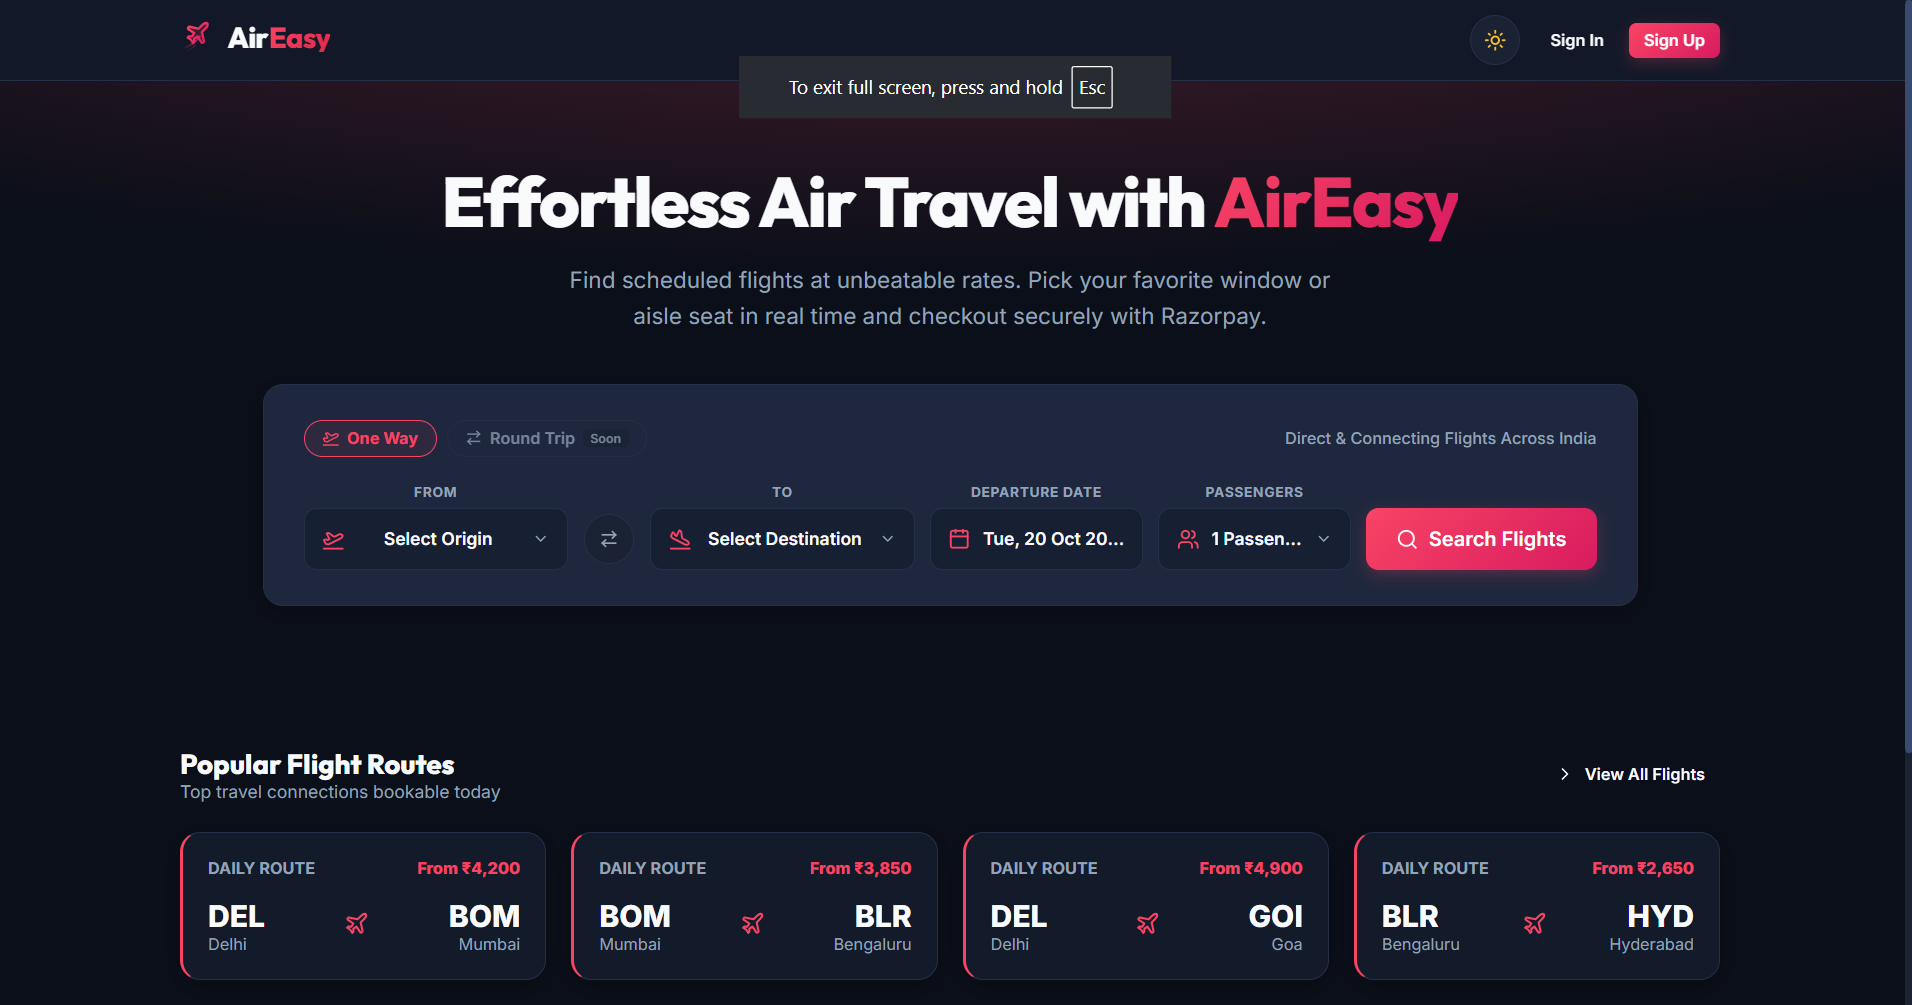
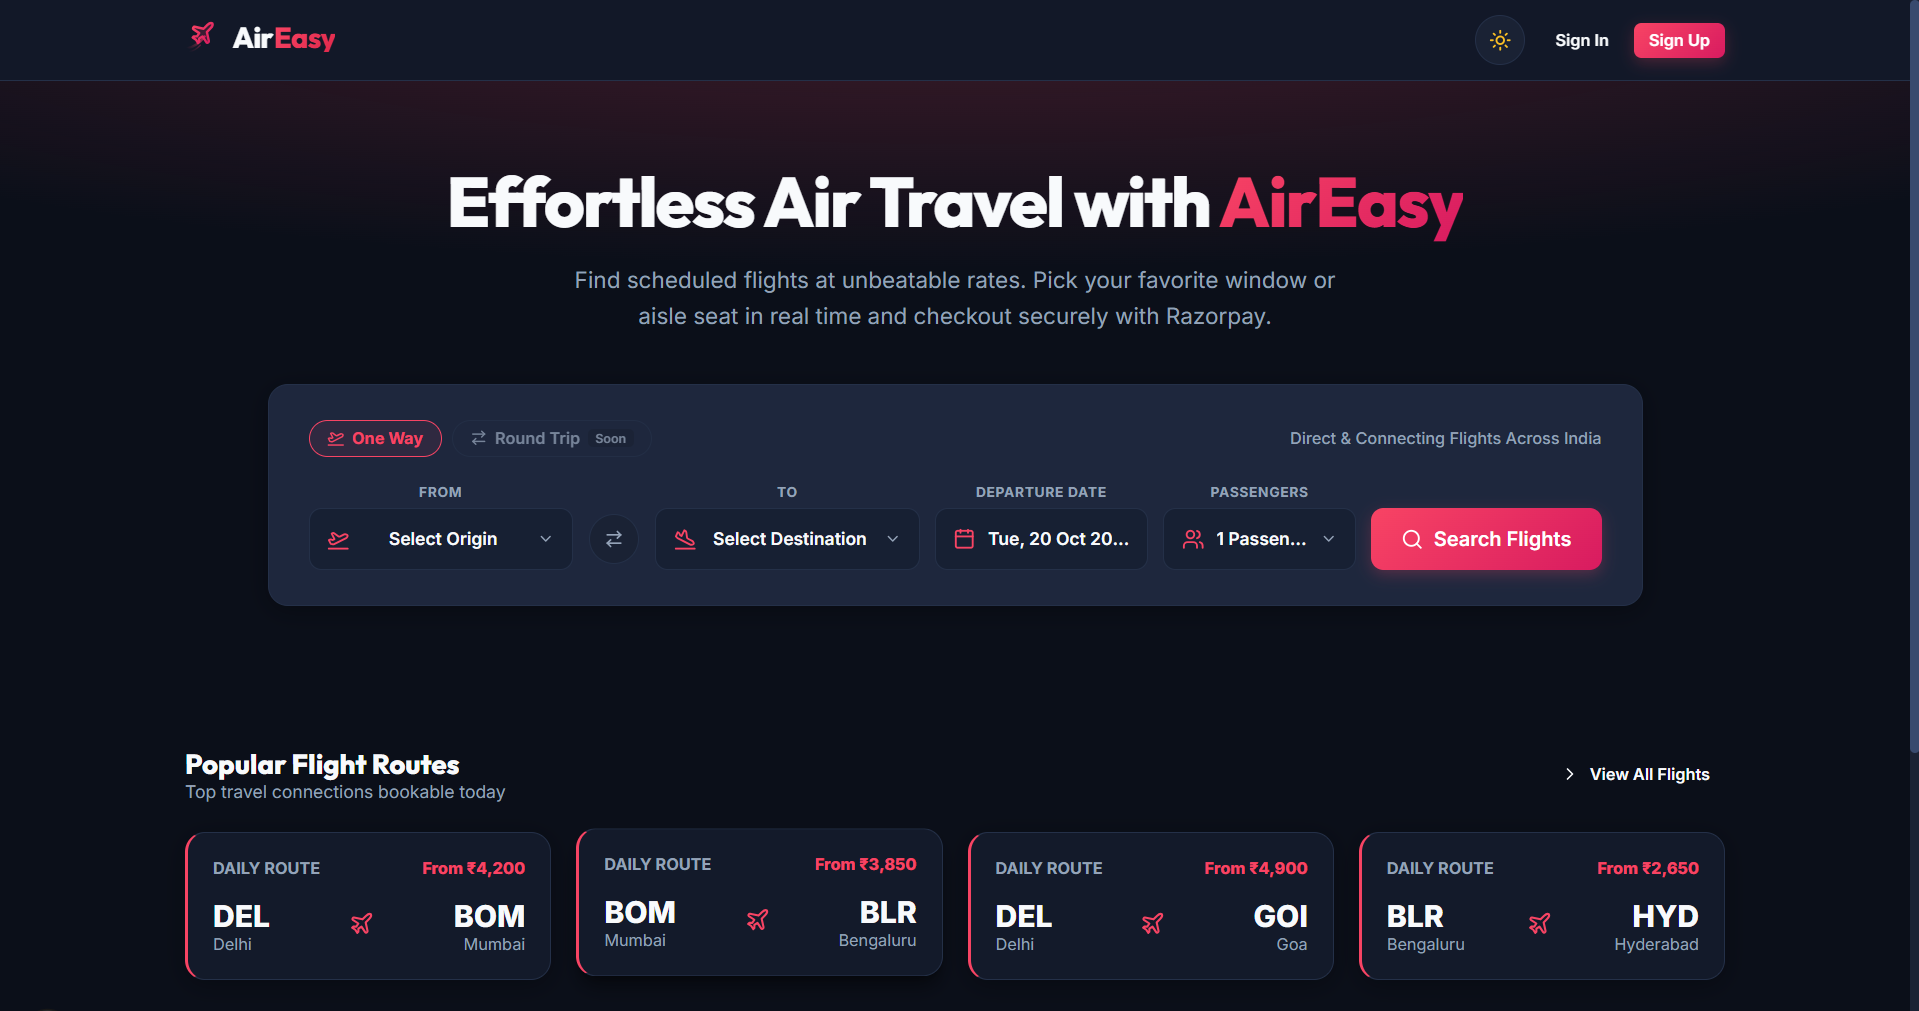
readme

diff --git a/frontend/src/context/AuthContext.tsx b/frontend/src/context/AuthContext.tsx
@@ -26,28 +26,48 @@ export function AuthProvider({ children }: { children: React.ReactNode }) {
   const initializeAuth = useCallback(async () => {
     try {
       const storedUser = localStorage.getItem('aireasy_user');
-      const token = getAccessToken();
-
+      let parsedUser: User | null = null;
       if (storedUser) {
-        setUser(JSON.parse(storedUser));
+        try {
+          parsedUser = JSON.parse(storedUser);
+          setUser(parsedUser);
+        } catch {
+          // ignore parse error
+        }
       }
 
-      // If we don't have an active token or we want to verify session validity
-      if (!token) {
-        try {
-          const refreshRes = await apiRequest<{ accessToken: string }>('/auth/refresh', {
-            method: 'POST',
-            skipAuth: true,
-          });
-          if (refreshRes.data?.accessToken) {
-            setAccessToken(refreshRes.data.accessToken);
+      // Request a fresh in-memory access token on startup using the httpOnly cookie
+      try {
+        const refreshRes = await apiRequest<{ accessToken: string }>('/auth/refresh', {
+          method: 'POST',
+          skipAuth: true,
+        });
+        if (refreshRes.data?.accessToken) {
+          const freshToken = refreshRes.data.accessToken;
+          setAccessToken(freshToken);
+
+          // Sync user & roles from the fresh token
+          try {
+            const payloadPart = freshToken.split('.')[1];
+            if (payloadPart) {
+              const decoded = JSON.parse(atob(payloadPart));
+              const updatedUser: User = {
+                id: decoded.userId ?? (parsedUser ? parsedUser.id : 0),
+                email: decoded.email ?? (parsedUser ? parsedUser.email : ''),
+                roles: (Array.isArray(decoded.roles) ? decoded.roles : parsedUser?.roles) || ['CUSTOMER'],
+              };
+              setUser(updatedUser);
+              localStorage.setItem('aireasy_user', JSON.stringify(updatedUser));
+            }
+          } catch (e) {
+            // Keep parsedUser if decode fails
           }
-        } catch (err) {
-          // No active session cookie
-          setUser(null);
-          localStorage.removeItem('aireasy_user');
-          setAccessToken(null);
         }
+      } catch (err) {
+        // No active session cookie or expired
+        setUser(null);
+        localStorage.removeItem('aireasy_user');
+        setAccessToken(null);
       }
     } catch (e) {
       console.error('Failed to initialize auth', e);

diff --git a/frontend/src/app/admin/page.tsx b/frontend/src/app/admin/page.tsx
@@ -35,31 +35,29 @@ export default function AdminPortalPage() {
   const [activeTab, setActiveTab] = useState<AdminTab>('AIRPLANES');
   const [loading, setLoading] = useState(false);
 
-  // Data states
   const [airplanes, setAirplanes] = useState<Airplane[]>([]);
   const [flights, setFlights] = useState<Flight[]>([]);
   const [airports, setAirports] = useState<Airport[]>([]);
   const [cities, setCities] = useState<City[]>([]);
 
-  // Modals state
+  // Modals
   const [isModalOpen, setIsModalOpen] = useState(false);
   const [modalType, setModalType] = useState<AdminTab>('AIRPLANES');
 
-  // Form states
-  // 1. Airplane Form
+  //Airplane Form
   const [airplaneModel, setAirplaneModel] = useState('');
   const [airplaneCapacity, setAirplaneCapacity] = useState('180');
 
-  // 2. City Form
+  //City Form
   const [cityName, setCityName] = useState('');
 
-  // 3. Airport Form
+  //Airport Form
   const [airportName, setAirportName] = useState('');
   const [airportCode, setAirportCode] = useState('');
   const [airportAddress, setAirportAddress] = useState('');
   const [airportCityId, setAirportCityId] = useState('');
 
-  // 4. Flight Form
+  //Flight Form
   const [flightNumber, setFlightNumber] = useState('');
   const [flightAirplaneId, setFlightAirplaneId] = useState('');
   const [flightDepAirportId, setFlightDepAirportId] = useState('');
@@ -69,7 +67,7 @@ export default function AdminPortalPage() {
   const [flightPrice, setFlightPrice] = useState('');
   const [flightGate, setFlightGate] = useState('');
 
-  // 5. Role Form
+  // Role Form
   const [roleUserId, setRoleUserId] = useState('');
   const [roleName, setRoleName] = useState('ADMIN');
 

diff --git a/frontend/src/components/flights/FlightCard.tsx b/frontend/src/components/flights/FlightCard.tsx
@@ -3,7 +3,6 @@
 import React from 'react';
 import { Flight } from '@/types';
 import { Card } from '@/components/ui/Card';
-import { Badge } from '@/components/ui/Badge';
 import { Button } from '@/components/ui/Button';
 import { Plane, Clock, Armchair, ChevronRight } from 'lucide-react';
 
@@ -42,7 +41,7 @@ export function FlightCard({ flight, onSelect }: FlightCardProps) {
         borderLeft: isLowSeats ? '4px solid var(--color-warning)' : '4px solid var(--color-primary)',
       }}
     >
-      {/* Top Bar: Flight number, Airplane model, Gate */}
+      {/* Top Bar: Flight number, Airplane model */}
       <div
         style={{
           display: 'flex',
@@ -73,12 +72,6 @@ export function FlightCard({ flight, onSelect }: FlightCardProps) {
           <span style={{ fontSize: '13px', color: 'var(--text-muted)', fontWeight: 500 }}>
             {flight.airplane?.modelNumber || 'Commercial Airliner'}
           </span>
-
-          {flight.boardingGate && (
-            <Badge variant="neutral" size="sm">
-              Gate {flight.boardingGate}
-            </Badge>
-          )}
         </div>
 
         {/* Available seats */}

diff --git a/frontend/src/lib/api-client.ts b/frontend/src/lib/api-client.ts
@@ -22,20 +22,9 @@ const processQueue = (error: any, token: string | null = null) => {
 
 export const setAccessToken = (token: string | null) => {
   accessToken = token;
-  if (typeof window !== 'undefined') {
-    if (token) {
-      localStorage.setItem('aireasy_access_token', token);
-    } else {
-      localStorage.removeItem('aireasy_access_token');
-    }
-  }
 };
 
 export const getAccessToken = (): string | null => {
-  if (accessToken) return accessToken;
-  if (typeof window !== 'undefined') {
-    accessToken = localStorage.getItem('aireasy_access_token');
-  }
   return accessToken;
 };
 

diff --git a/README.md b/README.md
@@ -4,7 +4,9 @@ A flight booking and transaction processing system built on a  microservices arc
 
 The backend leverages an API Gateway for request routing and stateless security enforcement, uses RabbitMQ for asynchronous event-driven task processing, and integrates with the Resend API for transactional email dispatching. The frontend provides an intuitive booking experience with live seat selection and Razorpay payment integration.
 
-<img src="assets/landing.png" alt="AirEasy Landing Page" width="100%" />
+![AirEasy Landing Page](./assets/landing.png)
+
+![AirEasy Flight Search Results](./assets/search_results.png)
 
 ---
 
@@ -125,4 +127,4 @@ graph TD
 
 Upon processing a successful flight booking payment, the notification service sends the following HTML-formatted transactional ticket summary to the user's inbox:
 
-<img src="assets/booking-confirmation.png" alt="Booking Confirmation Email" width="450" />
+![Booking Confirmation Email](./assets/booking-confirmation.png)
